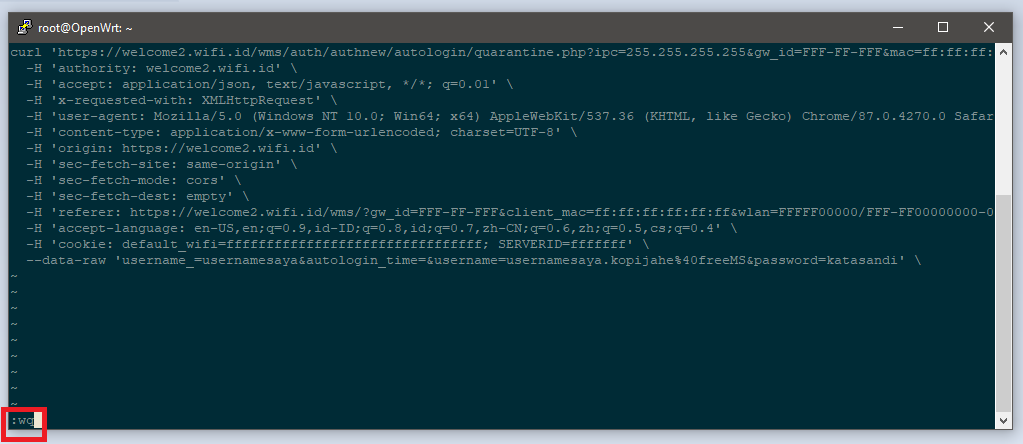
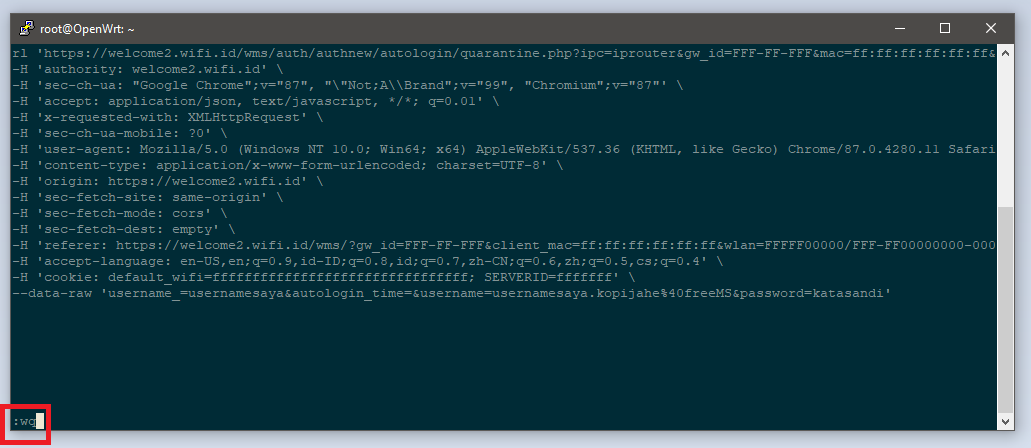
Autologin: WMS: update scripts and documentation
New and improved script
Load-balancing ready

Changed region(s): [[0.0, 0.0293, 1.0, 0.9955], [0.697, 0.2342, 0.8485, 0.2928], [0.8788, 0.2342, 0.9091, 0.2635]]

diff --git a/autologin-wms.md b/autologin-wms.md
@@ -85,15 +85,20 @@ Kesal harus bolak-balik login ketika memakai jaringan Venue WMS di rumah?
 ![login_file-5a](pics/wms-venue/login_file-5a.png)
 ![login_file-5b](pics/wms-venue/login_file-5b.png)
 
-14. Tekan tombol ```ESC``` lalu ketikkan ```:wq``` untuk menyimpan perubahan berkas
+14. Ganti nilai alamat IP di bagian atas (setelah ```ipc=```) dengan `iprouter`
+
+![login_file-5c](pics/wms-venue/login_file-5c.png)
+![login_file-5d](pics/wms-venue/login_file-5d.png)
+
+15. Tekan tombol ```ESC``` lalu ketikkan ```:wq``` untuk menyimpan perubahan berkas
 
 ![login_file-6](pics/wms-venue/login_file-6.png)
 
-15. Atur supaya berkas ```login_file.txt``` bisa dijalankan dengan mengetikkan ```chmod +x /etc/login_file.txt```
+16. Atur supaya berkas ```login_file.txt``` bisa dijalankan dengan mengetikkan ```chmod +x /etc/login_file.txt```
 
 ![login_file-7](pics/autologin/login_file-7.png)
 
-16. Unduh script autologin dengan menggunakan perintah: ```curl https://raw.githubusercontent.com/kopijahe/wifiid-openwrt/master/scripts/autologin-wms.sh -o /etc/autologin.sh```
+17. Unduh script autologin dengan menggunakan perintah: ```curl https://raw.githubusercontent.com/kopijahe/wifiid-openwrt/master/scripts/autologin-wms.sh -o /etc/autologin.sh```
 
 ![login_file-8](pics/wms-venue/login_file-8.png)
 
@@ -105,21 +110,21 @@ Kesal harus bolak-balik login ketika memakai jaringan Venue WMS di rumah?
 >
 > :loudspeaker: Gagal ketika mengunduh script? Lihat solusinya [di sini](https://github.com/kopijahe/wifiid-openwrt/issues/3).
 
-17. Atur supaya berkas ```autologin.sh``` bisa dijalankan dengan mengetikkan ```chmod +x /etc/autologin.sh```
+18. Atur supaya berkas ```autologin.sh``` bisa dijalankan dengan mengetikkan ```chmod +x /etc/autologin.sh```
 
 ![login_file-9](pics/autologin/login_file-9.png)
 
-18. Buka berkas ```/etc/rc.local``` dengan mengetikkan ```vi /etc/rc.local```
+19. Buka berkas ```/etc/rc.local``` dengan mengetikkan ```vi /etc/rc.local```
 
 ![vi-rc-local](pics/autologin/14-vi-rc-local.png)
 
-19. Tekan huruf ```i```, lalu tambahkan baris ```/bin/sh /etc/autologin.sh &``` di atas baris ```exit 0```
+20. Tekan huruf ```i```, lalu tambahkan baris ```/bin/sh /etc/autologin.sh &``` di atas baris ```exit 0```
 
 ![vi-rc-local-2](pics/autologin/15-vi-rc-local-2.png)
 
-20. Tekan tombol ```ESC``` lalu ketikkan ```:wq``` untuk menyimpan perubahan berkas
+21. Tekan tombol ```ESC``` lalu ketikkan ```:wq``` untuk menyimpan perubahan berkas
 
-21. Ketikkan ```sh /etc/rc.local``` untuk menjalankan script yang sudah kita racik, jika muncul tulisan ```Sudah terkoneksi ke Internet``` maka **anda sudah berhasil**.
+22. Ketikkan ```sh /etc/rc.local``` untuk menjalankan script yang sudah kita racik, jika muncul tulisan ```Sudah terkoneksi ke Internet``` maka **anda sudah berhasil**.
 
 ![sh-rc-local](pics/autologin/16-sh-rc-local.png)
 
